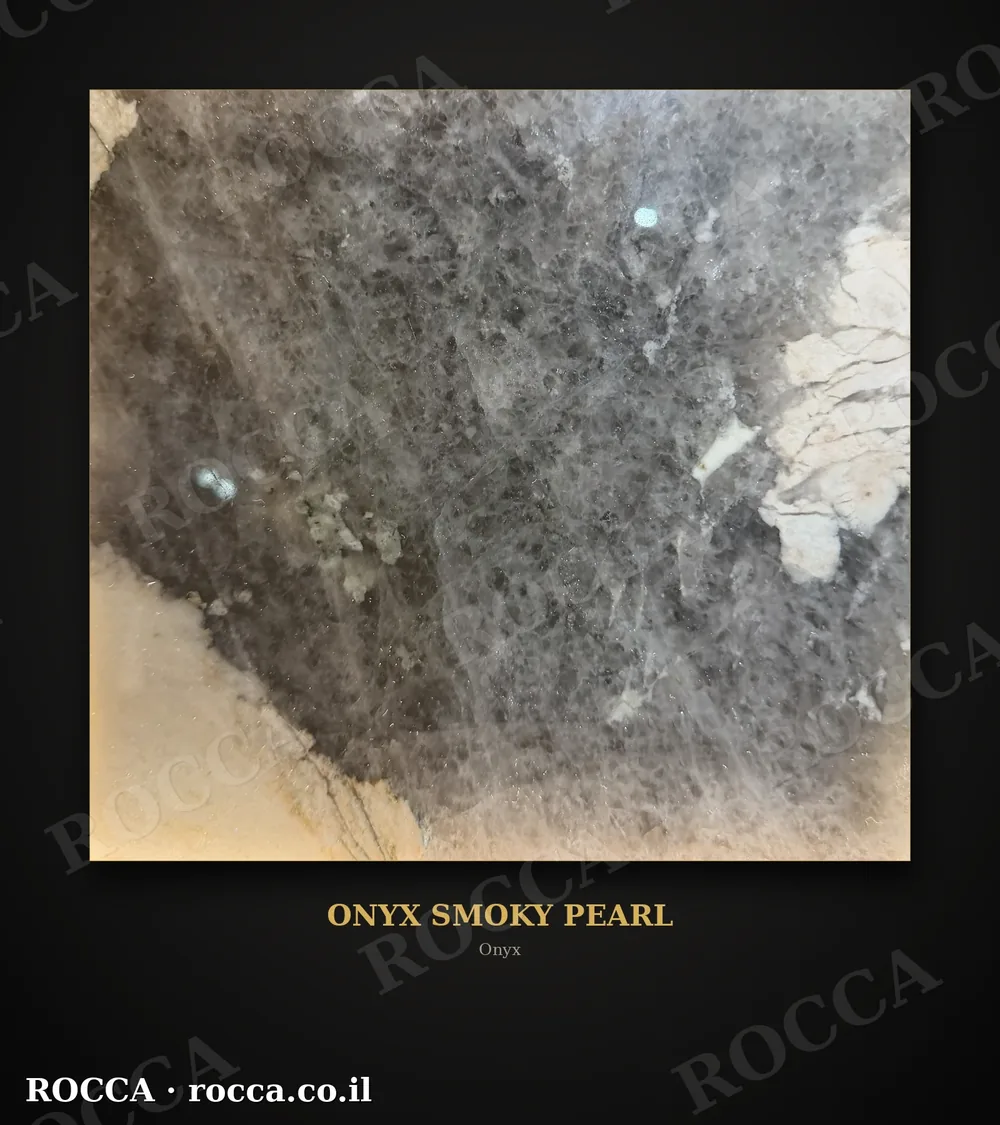
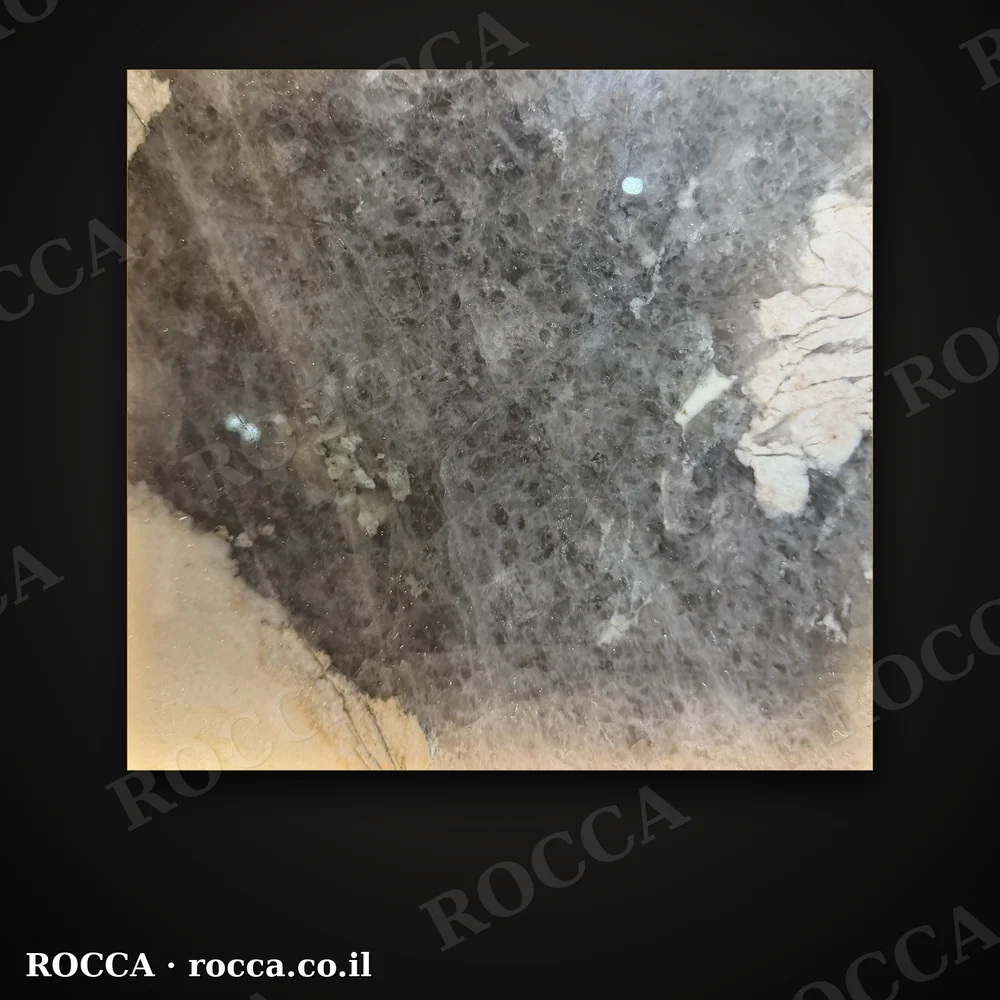
Clean square catalog images without baked-in captions; gold outline on kind chip
Claude-Session: https://claude.ai/code/session_018tJxggpWuQsj8rPde26rTX

diff --git a/index.html b/index.html
@@ -84,7 +84,7 @@
   .prod-card{position:relative;border-radius:4px;overflow:hidden;border:1px solid var(--line);aspect-ratio:1;}
   .prod-card img{width:100%;height:100%;object-fit:cover;}
   .prod-card .label{position:absolute;bottom:0;right:0;left:0;padding:12px 14px;background:linear-gradient(0deg, rgba(15,12,9,.82), transparent);color:#F5EFE2;font-size:13.5px;font-weight:700;}
-  .prod-card .kind{position:absolute;top:10px;right:10px;background:rgba(20,17,13,.75);color:var(--gold);font-size:11px;font-weight:700;padding:3px 9px;border-radius:12px;letter-spacing:.5px;}
+  .prod-card .kind{position:absolute;top:10px;right:10px;background:rgba(20,17,13,.85);border:1px solid rgba(212,175,90,.45);color:var(--gold);font-size:11px;font-weight:700;padding:3px 9px;border-radius:12px;letter-spacing:.5px;}
   @media (max-width:900px){.prod-grid{grid-template-columns:repeat(2,1fr);}}
 
   .gallery{display:grid;grid-template-columns:1.3fr 1fr;gap:18px;margin-top:40px;}
@@ -232,26 +232,26 @@
     <h2 class="title">כל סוגי האבן הטבעית, במקום אחד</h2>
     <p class="lede">מבחר רחב מתוך המלאי הבלעדי שלנו — כל אבן ניתנת לבדיקה ולבחירה אישית באולם התצוגה.</p>
     <div class="prod-grid">
-      <div class="prod-card"><span class="kind">אוניקס</span><img src="images/catalog/onyx-green.webp" alt="אוניקס ירוק, דוגמת אבן טבעית" loading="lazy" width="1000" height="1125"><div class="label">אוניקס ירוק</div></div>
-      <div class="prod-card"><span class="kind">אוניקס</span><img src="images/catalog/onyx-white.webp" alt="אוניקס לבן, דוגמת אבן טבעית" loading="lazy" width="1000" height="1125"><div class="label">אוניקס לבן</div></div>
-      <div class="prod-card"><span class="kind">אוניקס</span><img src="images/catalog/onyx-pink.webp" alt="אוניקס ורוד, דוגמת אבן טבעית" loading="lazy" width="1000" height="1125"><div class="label">אוניקס ורוד</div></div>
-      <div class="prod-card"><span class="kind">שיש</span><img src="images/catalog/green-marble.webp" alt="שיש ירוק טבעי, דוגמת אבן" loading="lazy" width="1000" height="1125"><div class="label">שיש ירוק טבעי</div></div>
-      <div class="prod-card"><span class="kind">שיש</span><img src="images/catalog/river-blue.webp" alt="שיש River Blue, דוגמת אבן" loading="lazy" width="1000" height="1125"><div class="label">River Blue</div></div>
-      <div class="prod-card"><span class="kind">גרניט</span><img src="images/catalog/alaska-gold.webp" alt="גרניט Alaska Gold, דוגמת אבן" loading="lazy" width="1000" height="1125"><div class="label">Alaska Gold</div></div>
-      <div class="prod-card"><span class="kind">גרניט</span><img src="images/catalog/blue-dunes.webp" alt="גרניט Blue Dunes, דוגמת אבן" loading="lazy" width="1000" height="1125"><div class="label">Blue Dunes</div></div>
-      <div class="prod-card"><span class="kind">גרניט</span><img src="images/catalog/r-black.webp" alt="גרניט R Black, דוגמת אבן" loading="lazy" width="1000" height="1125"><div class="label">R Black</div></div>
-      <div class="prod-card"><span class="kind">גרניט</span><img src="images/catalog/alaska-white.webp" alt="גרניט Alaska White, דוגמת אבן" loading="lazy" width="1000" height="1125"><div class="label">Alaska White</div></div>
-      <div class="prod-card"><span class="kind">קוורציט</span><img src="images/catalog/green-quartzite.webp" alt="קוורציט ירוק, דוגמת אבן" loading="lazy" width="1000" height="1125"><div class="label">קוורציט ירוק</div></div>
-      <div class="prod-card"><span class="kind">גרניט</span><img src="images/catalog/black-gold-granite.webp" alt="גרניט Black Gold, דוגמת אבן" loading="lazy" width="1000" height="1125"><div class="label">Black Gold</div></div>
-      <div class="prod-card"><span class="kind">שיש</span><img src="images/catalog/rainforest-gold.webp" alt="שיש Rainforest Gold, דוגמת אבן" loading="lazy" width="1000" height="1125"><div class="label">Rainforest Gold</div></div>
-      <div class="prod-card"><span class="kind">שיש</span><img src="images/catalog/paloda-white.webp" alt="שיש Paloda White, דוגמת אבן" loading="lazy" width="1000" height="1125"><div class="label">Paloda White</div></div>
-      <div class="prod-card"><span class="kind">שיש</span><img src="images/catalog/brown-fantasy.webp" alt="שיש Brown Fantasy, דוגמת אבן" loading="lazy" width="1000" height="1125"><div class="label">Brown Fantasy</div></div>
-      <div class="prod-card"><span class="kind">שיש</span><img src="images/catalog/dower-white.webp" alt="שיש Dower White, דוגמת אבן" loading="lazy" width="1000" height="1125"><div class="label">Dower White</div></div>
-      <div class="prod-card"><span class="kind">שיש</span><img src="images/catalog/midnight-wave.webp" alt="שיש Midnight Wave, דוגמת אבן" loading="lazy" width="1000" height="1125"><div class="label">Midnight Wave</div></div>
-      <div class="prod-card"><span class="kind">אוניקס</span><img src="images/catalog/onyx-moonlight.webp" alt="אוניקס Moonlight, דוגמת אבן" loading="lazy" width="1000" height="1125"><div class="label">Onyx Moonlight</div></div>
-      <div class="prod-card"><span class="kind">אוניקס</span><img src="images/catalog/onyx-rose-quartz.webp" alt="אוניקס Rose Quartz, דוגמת אבן" loading="lazy" width="1000" height="1125"><div class="label">Onyx Rose Quartz</div></div>
-      <div class="prod-card"><span class="kind">אוניקס</span><img src="images/catalog/onyx-smoky-pearl.webp" alt="אוניקס Smoky Pearl, דוגמת אבן" loading="lazy" width="1000" height="1125"><div class="label">Onyx Smoky Pearl</div></div>
-      <div class="prod-card"><span class="kind">אוניקס</span><img src="images/catalog/onyx-glacier.webp" alt="אוניקס Glacier, דוגמת אבן" loading="lazy" width="1000" height="1125"><div class="label">Onyx Glacier</div></div>
+      <div class="prod-card"><span class="kind">אוניקס</span><img src="images/catalog/onyx-green.webp" alt="אוניקס ירוק, דוגמת אבן טבעית" loading="lazy" width="1000" height="1000"><div class="label">אוניקס ירוק</div></div>
+      <div class="prod-card"><span class="kind">אוניקס</span><img src="images/catalog/onyx-white.webp" alt="אוניקס לבן, דוגמת אבן טבעית" loading="lazy" width="1000" height="1000"><div class="label">אוניקס לבן</div></div>
+      <div class="prod-card"><span class="kind">אוניקס</span><img src="images/catalog/onyx-pink.webp" alt="אוניקס ורוד, דוגמת אבן טבעית" loading="lazy" width="1000" height="1000"><div class="label">אוניקס ורוד</div></div>
+      <div class="prod-card"><span class="kind">שיש</span><img src="images/catalog/green-marble.webp" alt="שיש ירוק טבעי, דוגמת אבן" loading="lazy" width="1000" height="1000"><div class="label">שיש ירוק טבעי</div></div>
+      <div class="prod-card"><span class="kind">שיש</span><img src="images/catalog/river-blue.webp" alt="שיש River Blue, דוגמת אבן" loading="lazy" width="1000" height="1000"><div class="label">River Blue</div></div>
+      <div class="prod-card"><span class="kind">גרניט</span><img src="images/catalog/alaska-gold.webp" alt="גרניט Alaska Gold, דוגמת אבן" loading="lazy" width="1000" height="1000"><div class="label">Alaska Gold</div></div>
+      <div class="prod-card"><span class="kind">גרניט</span><img src="images/catalog/blue-dunes.webp" alt="גרניט Blue Dunes, דוגמת אבן" loading="lazy" width="1000" height="1000"><div class="label">Blue Dunes</div></div>
+      <div class="prod-card"><span class="kind">גרניט</span><img src="images/catalog/r-black.webp" alt="גרניט R Black, דוגמת אבן" loading="lazy" width="1000" height="1000"><div class="label">R Black</div></div>
+      <div class="prod-card"><span class="kind">גרניט</span><img src="images/catalog/alaska-white.webp" alt="גרניט Alaska White, דוגמת אבן" loading="lazy" width="1000" height="1000"><div class="label">Alaska White</div></div>
+      <div class="prod-card"><span class="kind">קוורציט</span><img src="images/catalog/green-quartzite.webp" alt="קוורציט ירוק, דוגמת אבן" loading="lazy" width="1000" height="1000"><div class="label">קוורציט ירוק</div></div>
+      <div class="prod-card"><span class="kind">גרניט</span><img src="images/catalog/black-gold-granite.webp" alt="גרניט Black Gold, דוגמת אבן" loading="lazy" width="1000" height="1000"><div class="label">Black Gold</div></div>
+      <div class="prod-card"><span class="kind">שיש</span><img src="images/catalog/rainforest-gold.webp" alt="שיש Rainforest Gold, דוגמת אבן" loading="lazy" width="1000" height="1000"><div class="label">Rainforest Gold</div></div>
+      <div class="prod-card"><span class="kind">שיש</span><img src="images/catalog/paloda-white.webp" alt="שיש Paloda White, דוגמת אבן" loading="lazy" width="1000" height="1000"><div class="label">Paloda White</div></div>
+      <div class="prod-card"><span class="kind">שיש</span><img src="images/catalog/brown-fantasy.webp" alt="שיש Brown Fantasy, דוגמת אבן" loading="lazy" width="1000" height="1000"><div class="label">Brown Fantasy</div></div>
+      <div class="prod-card"><span class="kind">שיש</span><img src="images/catalog/dower-white.webp" alt="שיש Dower White, דוגמת אבן" loading="lazy" width="1000" height="1000"><div class="label">Dower White</div></div>
+      <div class="prod-card"><span class="kind">שיש</span><img src="images/catalog/midnight-wave.webp" alt="שיש Midnight Wave, דוגמת אבן" loading="lazy" width="1000" height="1000"><div class="label">Midnight Wave</div></div>
+      <div class="prod-card"><span class="kind">אוניקס</span><img src="images/catalog/onyx-moonlight.webp" alt="אוניקס Moonlight, דוגמת אבן" loading="lazy" width="1000" height="1000"><div class="label">Onyx Moonlight</div></div>
+      <div class="prod-card"><span class="kind">אוניקס</span><img src="images/catalog/onyx-rose-quartz.webp" alt="אוניקס Rose Quartz, דוגמת אבן" loading="lazy" width="1000" height="1000"><div class="label">Onyx Rose Quartz</div></div>
+      <div class="prod-card"><span class="kind">אוניקס</span><img src="images/catalog/onyx-smoky-pearl.webp" alt="אוניקס Smoky Pearl, דוגמת אבן" loading="lazy" width="1000" height="1000"><div class="label">Onyx Smoky Pearl</div></div>
+      <div class="prod-card"><span class="kind">אוניקס</span><img src="images/catalog/onyx-glacier.webp" alt="אוניקס Glacier, דוגמת אבן" loading="lazy" width="1000" height="1000"><div class="label">Onyx Glacier</div></div>
     </div>
   </div>
 </section>
